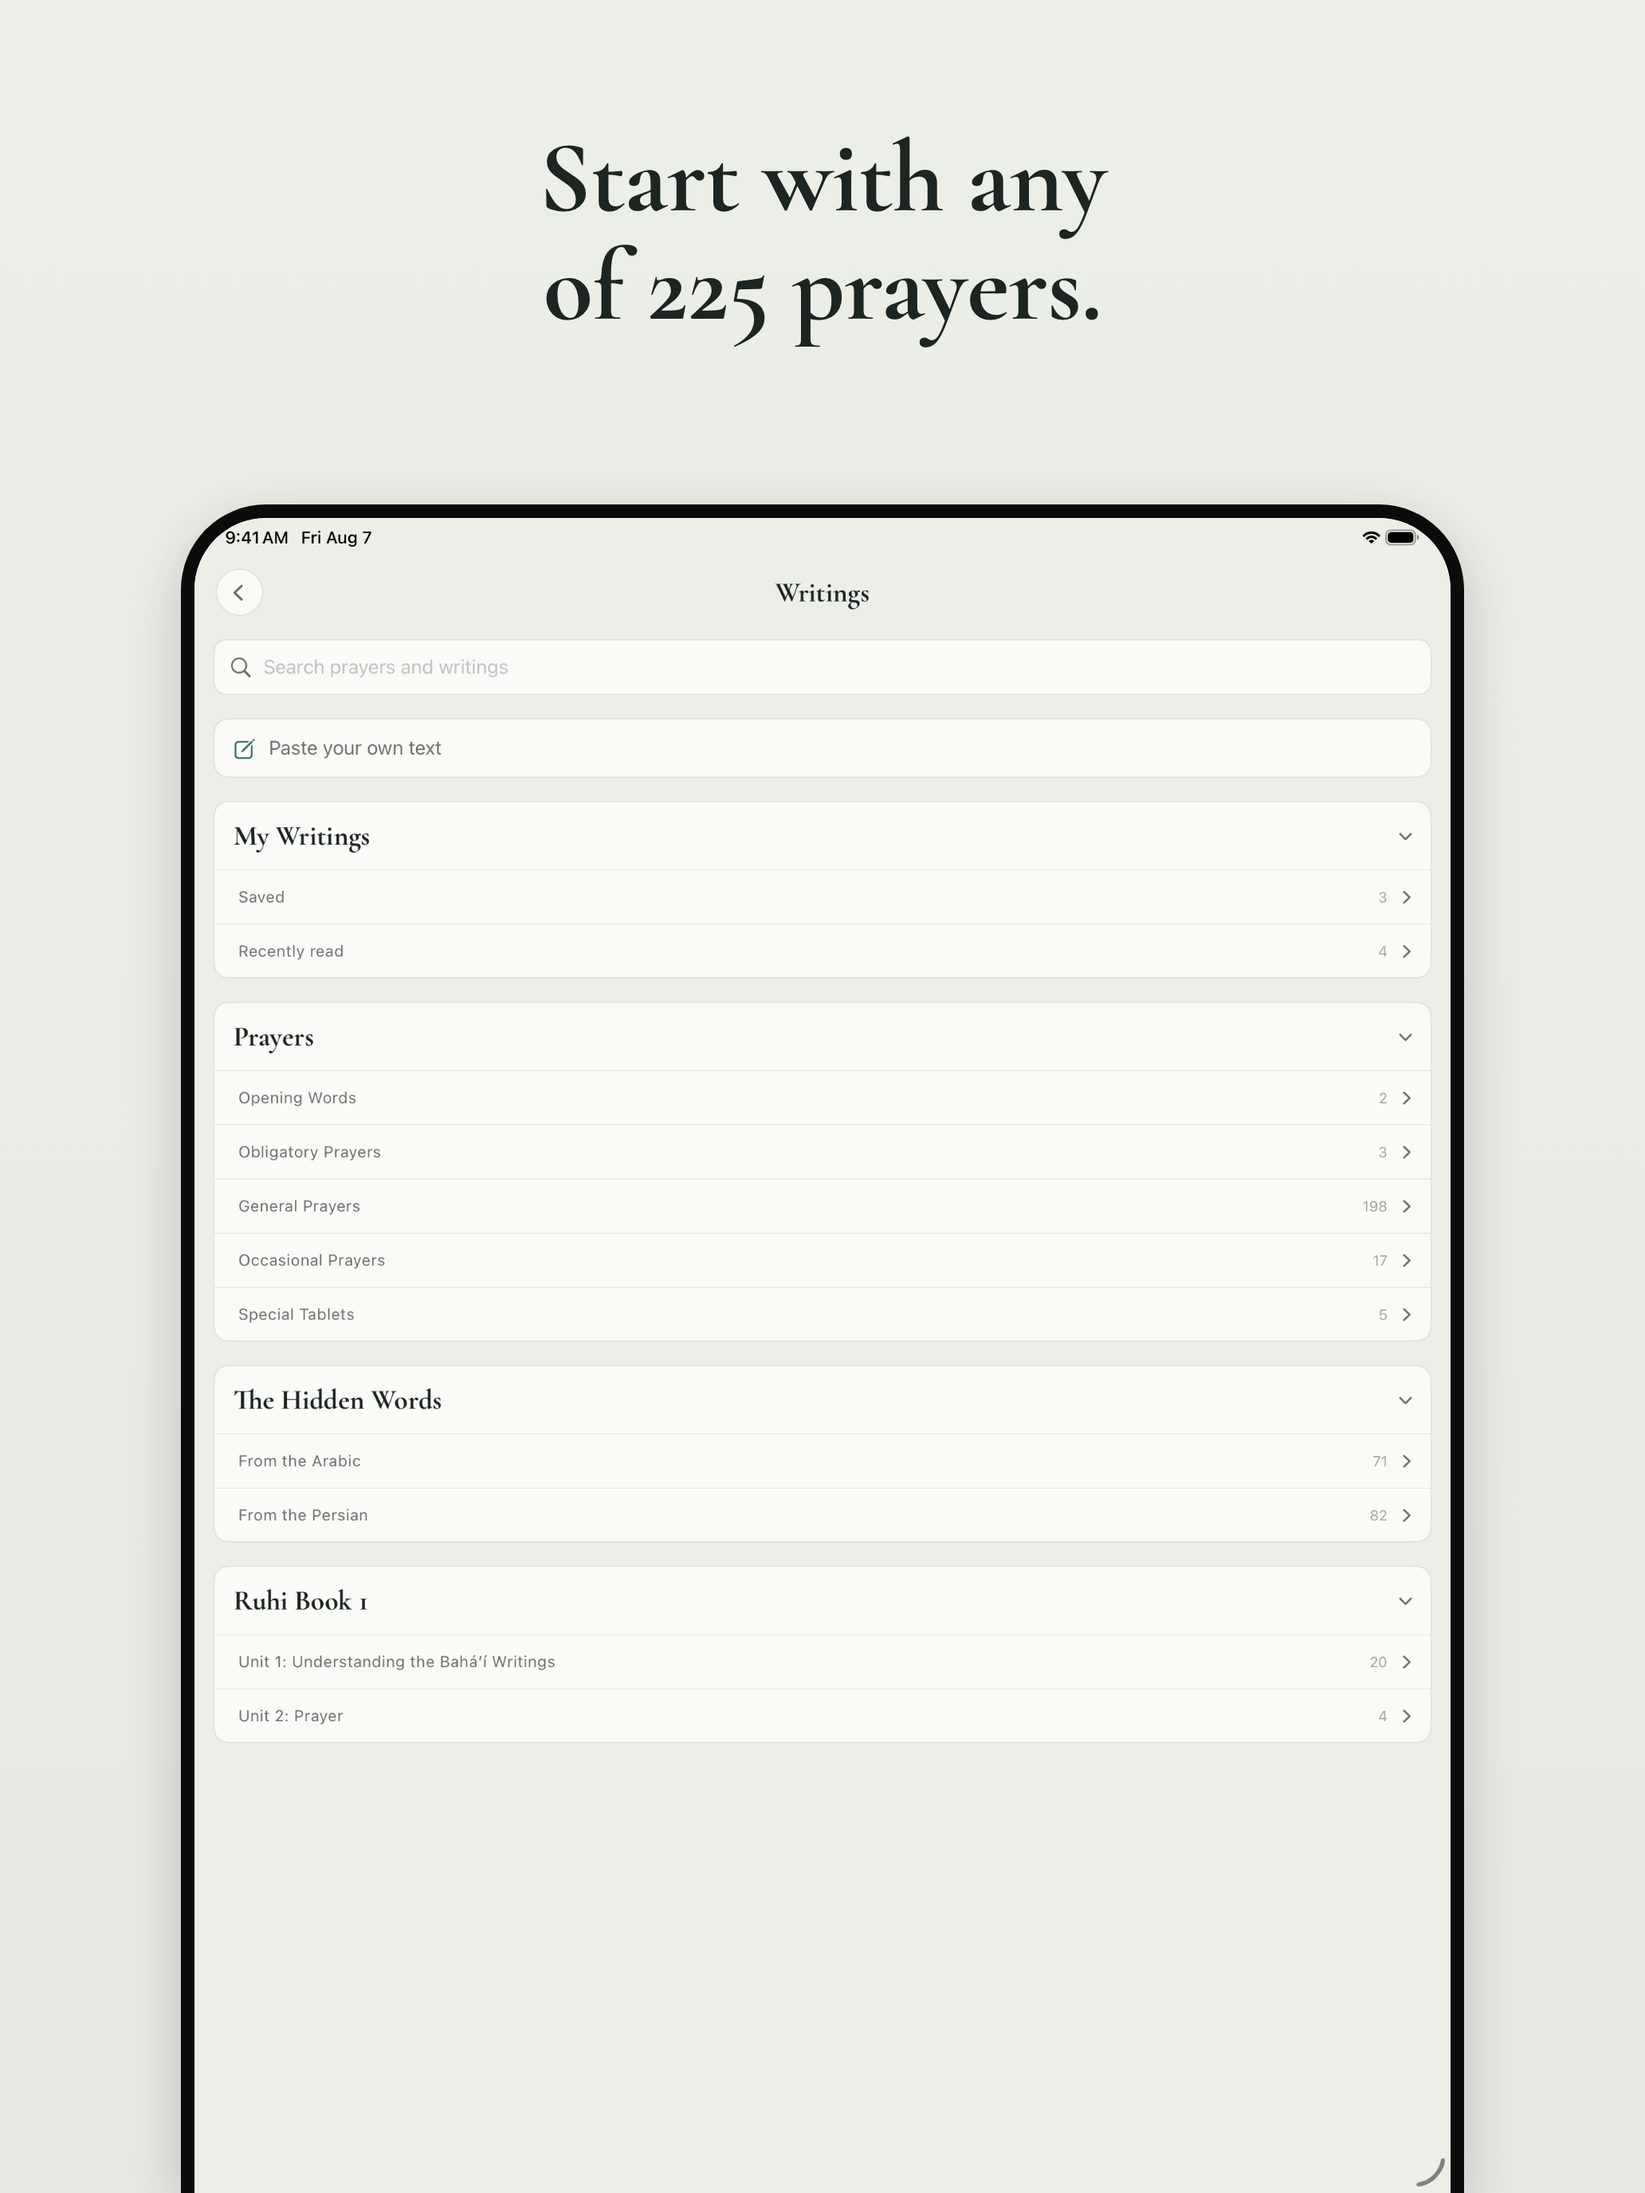
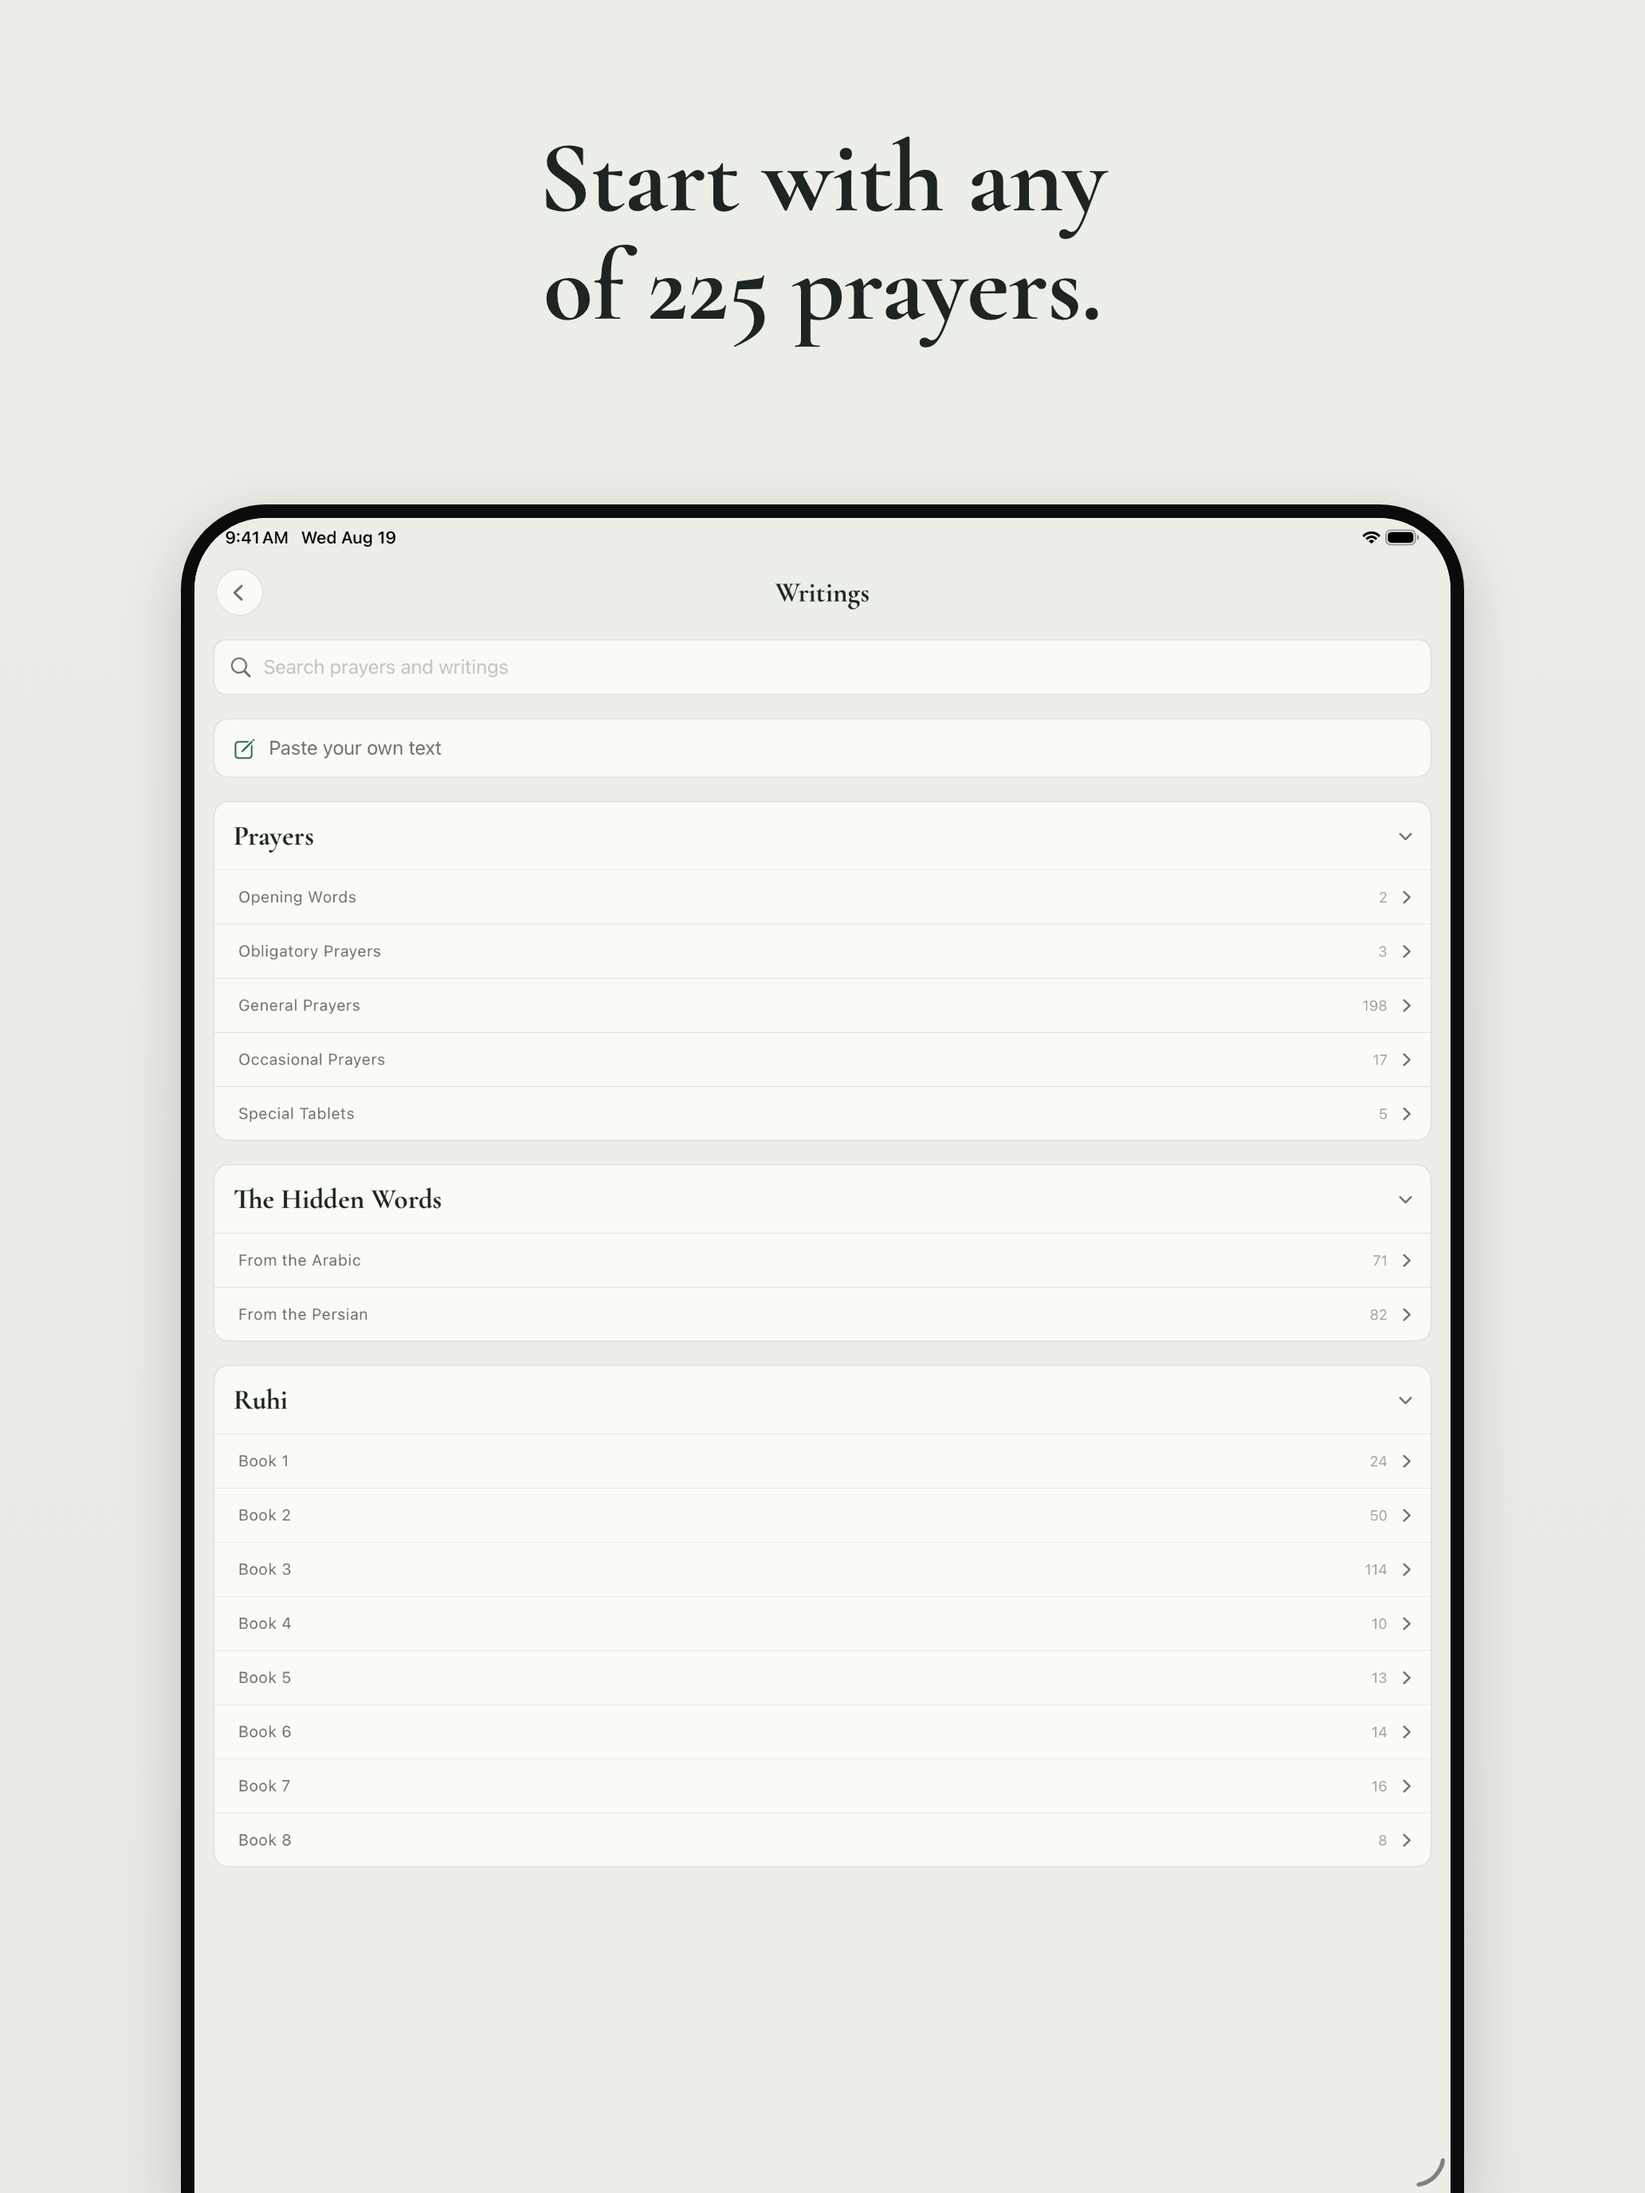
Record the 1.7 notes and reshoot the store tiles
The session is a different screen since 1.6 — vertical sections, the rail
down the left, the mic floating over a full-height page — and the library
carries two numbers where it carried one. Every uploaded tile showed the
old app, so all five were reshot along with the iPad's three.

The reading area no longer stops above a mic bar, which left the old chunk
size filling a third of the page. The iPhone hero moves to three source
lines per chunk and the two stages become 20% and 48% of the passage; the
iPad takes the whole prayer on one page through HERO_GROUP=7, since even
three lines float in the middle of that sheet.

seed.py drops savedWritings and recentPrayerIDs, which the app no longer
reads, and stamps lastSeenReleaseNotesVersion from project_version.py so
the What's New card does not open over the first shot.

The description promised a long-press that has been an options menu since
before 1.6.

Claude-Session: https://claude.ai/code/session_01LZ4iEXEsKkxG7vjU4QUNnn

diff --git a/store-screenshots/tools/seed.py b/store-screenshots/tools/seed.py
@@ -3,7 +3,10 @@ import json, uuid, sys, datetime, subprocess, os, random
 REPO = "/Users/faizififita/workspace/memorization-game"
 DEV = os.environ.get("SIM_UDID", "1E8D6700-3D51-4887-9A14-92E48D59B4B7")
 BUNDLE = "com.faizififita.MemorizationGame"
-HERO_GROUP = int(os.environ.get("HERO_GROUP", "2"))
+HERO_GROUP = int(os.environ.get("HERO_GROUP", "3"))
+RELEASE_VERSION = subprocess.run(
+    ["python3", f"{REPO}/scripts/project_version.py", "--get", "marketing"],
+    capture_output=True, text=True, check=True).stdout.strip()
 
 entries = json.load(open(f"{REPO}/MemorizationGame/Resources/library.json"))["entries"]
 
@@ -62,7 +65,9 @@ def ramp(n, hi=1.0, lo=0.0, solid=0):
 
 # the session hero, at two stages of the same chunk, so the store tiles can show
 # one passage getting harder rather than two unrelated screens
-HERO_FILLS = [1.0, 0.85, 0.0, 0.0] if os.environ.get("HERO_LATE") else [1.0, 0.4, 0.0, 0.0]
+HERO_FILLS = [0.9, 0.5, 0.0, 0.0] if os.environ.get("HERO_LATE") else [0.5, 0.15, 0.0, 0.0]
+if os.environ.get("HERO_FILLS"):
+    HERO_FILLS = [float(v) for v in os.environ["HERO_FILLS"].split(",")]
 
 # (needle, section, lines-per-chunk, per-chunk fill fractions)
 PICKS = [
@@ -140,38 +145,10 @@ earlier = {15: 12, 16: 19, 18: 9, 19: 22, 21: 15, 22: 8, 24: 17}
 for back, w in earlier.items():
     words_by_day[(today - datetime.timedelta(days=back)).strftime("%Y-%m-%d")] = w
 
-SAVED = [
-    ("Blessed is the spot", None),
-    ("Thy heart is My home", None),
-    ("Tablet of A", "Special Tablets"),
-]
-
-saved_writings = []
-for n, (needle, sec) in enumerate(SAVED):
-    e = find(needle, sec)
-    saved_writings.append({
-        "id": str(uuid.uuid4()).upper(),
-        "prayerID": e["id"],
-        "title": title_of(e),
-        "text": e["text"],
-        "author": e.get("author"),
-        "section": e.get("section"),
-        "savedAt": ((now - datetime.timedelta(days=n * 2 + 1)) - REF).total_seconds(),
-    })
-
-recent_prayer_ids = [find(needle, sec)["id"] for needle, sec in [
-    ("Is there any Remover", None),
-    ("I have turned in repentance unto Thee", None),
-    ("Prayer for the Dead", "General Prayers"),
-    ("Blessed is the spot", None),
-]]
-
 snapshot = {
     "passages": passages,
     "reviewables": reviewables,
     "practiceLog": {"wordsByDay": words_by_day},
-    "savedWritings": saved_writings,
-    "recentPrayerIDs": recent_prayer_ids,
     "settings": {
         "reminderEnabled": False,
         "reminders": [{"id": str(uuid.uuid4()).upper(), "minuteOfDay": 540,
@@ -180,6 +157,7 @@ snapshot = {
         "appTheme": sys.argv[1] if len(sys.argv) > 1 else "light",
         "fontSize": "medium",
         "hasSeenWelcomeTour": True,
+        "lastSeenReleaseNotesVersion": RELEASE_VERSION,
     },
 }
 

diff --git a/store-screenshots/README.md b/store-screenshots/README.md
@@ -19,9 +19,9 @@ read in order as one pass through the app — see `Design/StoreFrames/README.md`
 
 | Raw capture | Becomes | Shows |
 |---|---|---|
-| `3-built-in-library.png` | `1-choose.png` | the Writings surface: search, My Writings, bundled collections with counts |
-| `2-hide-words.png` | `2-hide.png` | the hero prayer's second section, 24% hidden |
-| `9-hide-more.png` | `3-hide-more.png` | the *same* section at 33%, which is what makes the set a sequence rather than a gallery |
+| `3-built-in-library.png` | `1-choose.png` | the Writings surface: search, paste-your-own, bundled collections with counts |
+| `2-hide-words.png` | `2-hide.png` | the hero prayer's second section, 20% of the passage hidden |
+| `9-hide-more.png` | `3-hide-more.png` | the *same* section at 48%, which is what makes the set a sequence rather than a gallery |
 | `recite-aloud.png` | `4-recite.png` | the session listening, mic active, words marking as they are spoken |
 | `6-library-dark.png` | `5-know.png` | the library in dark, streak and progress ramps, several passages finished |
 
@@ -32,9 +32,10 @@ the same way the later session stage already is.
 
 Two captures are stage-dependent and must be reshot as a pair if the hero passage changes:
 `2-hide-words.png` from the default seed and `9-hide-more.png` from `HERO_LATE=1`, which
-hides 85% of the same chunk instead of 40%. `HERO_LATE` deliberately leaves the later
+hides 50% of the same chunk instead of 15%. `HERO_LATE` deliberately leaves the later
 chunks empty so the session still lands on section 2 in both, keeping the two tiles
-identical but for the blanks.
+identical but for the blanks. `HERO_FILLS=0.2` overrides the pair outright, which is how
+the iPad is shot.
 
 The dark tile is shot with `python3 tools/seed.py dark` and the simulator in dark
 appearance, from the same picks as the light library, so the streak and the progress ramps
@@ -75,8 +76,10 @@ than scaling them.
 real passages from `MemorizationGame/Resources/library.json`. It mirrors the app's own
 import logic — units split on newlines, `span` = unit index, hidden words scattered across
 word-ish tokens — so the app loads it as if the passages had been imported by hand. It
-also seeds `savedWritings` and `recentPrayerIDs` so the Writings surface has counts to
-show, and sets `hasSeenWelcomeTour` so the guided tour does not cover the first screen.
+sets `hasSeenWelcomeTour` so the guided tour does not cover the first screen, and stamps
+`lastSeenReleaseNotesVersion` with the marketing version `project_version.py` reports, so
+the What's New card does not open over the first shot either — the stamp is read from the
+project rather than hardcoded, so bumping the version before a reshoot brings the card back.
 
 `PICKS` names passages by a substring of their text or heading. The library is rebuilt
 from bahai.org from time to time and passages do disappear — if `seed.py` exits with
@@ -88,8 +91,10 @@ untouched dashes. No uploaded tile draws on it since the set narrowed to four, s
 unset unless you are shooting that screen again; it adds rows to the library.
 
 `HERO_GROUP` sets how many source lines make up one chunk of the session hero passage.
-Leave it at the default `2` for iPhone; use `3` for iPad, where a smaller chunk floats in
-the middle of a much larger page.
+The reading area now runs the full height of the screen, so a chunk that used to fill it
+leaves two-thirds of the page blank. Leave it at the default `3` for iPhone; the iPad is
+shot with `HERO_GROUP=7 HERO_FILLS=0.2`, which puts the whole prayer on the one page —
+anything smaller floats in the middle of a much larger sheet.
 
 `tools/drive.py` taps through the UI using `idb`, locating elements by accessibility label
 so taps don't depend on hardcoded coordinates. Run it from inside `tools/` — it is

diff --git a/store-listing.md b/store-listing.md
@@ -26,7 +26,7 @@ Search for a half-remembered phrase, or browse by section. Nothing to download.
 
 MEMORIZE AT YOUR OWN PACE
 • Tap any word to hide it — tap again to bring it back
-• Long-press the passage to hide or reveal all of it at once
+• Hide or reveal a whole passage at once from the session menu
 • Long prayers divide into short passages you can move between freely
 • Nothing is locked, timed, or gated — start anywhere, stop anywhere
 
@@ -45,6 +45,17 @@ QUIET BY DESIGN
 • A simple record of how many words you've hidden each day — encouragement, not obligation
 
 Verses is built around one belief: memorization isn't a test to pass, it's a way of carrying words with you. Hide what you know. Read what you don't. Come back tomorrow.
+
+## What's New — 1.7 (4000)
+Moving through a prayer is now a swipe. Pull up past the end of a section to go on, down past the top to go back. A slim bar down the left edge shows how far you've come, and tapping it jumps you anywhere in the passage.
+
+The prayer fills the whole screen. The microphone and its buttons float above the words instead of taking a strip at the bottom.
+
+An eye beside the microphone brings your hidden words back for a moment, then lets them go. You can also recite aloud at any time, whether or not any words are hidden.
+
+Your library counts the prayers you've memorized beside the days you've kept going, and a prayer with no title takes its name from its opening words.
+
+Saved writings have been retired — browsing now goes straight to the writings themselves. Along with small fixes and refinements.
 
 ## What's New — 1.6 (4000)
 Prayers you've finished can now be archived. Swipe a prayer in your library to tuck it into an Archived section, and swipe again to bring it back.
